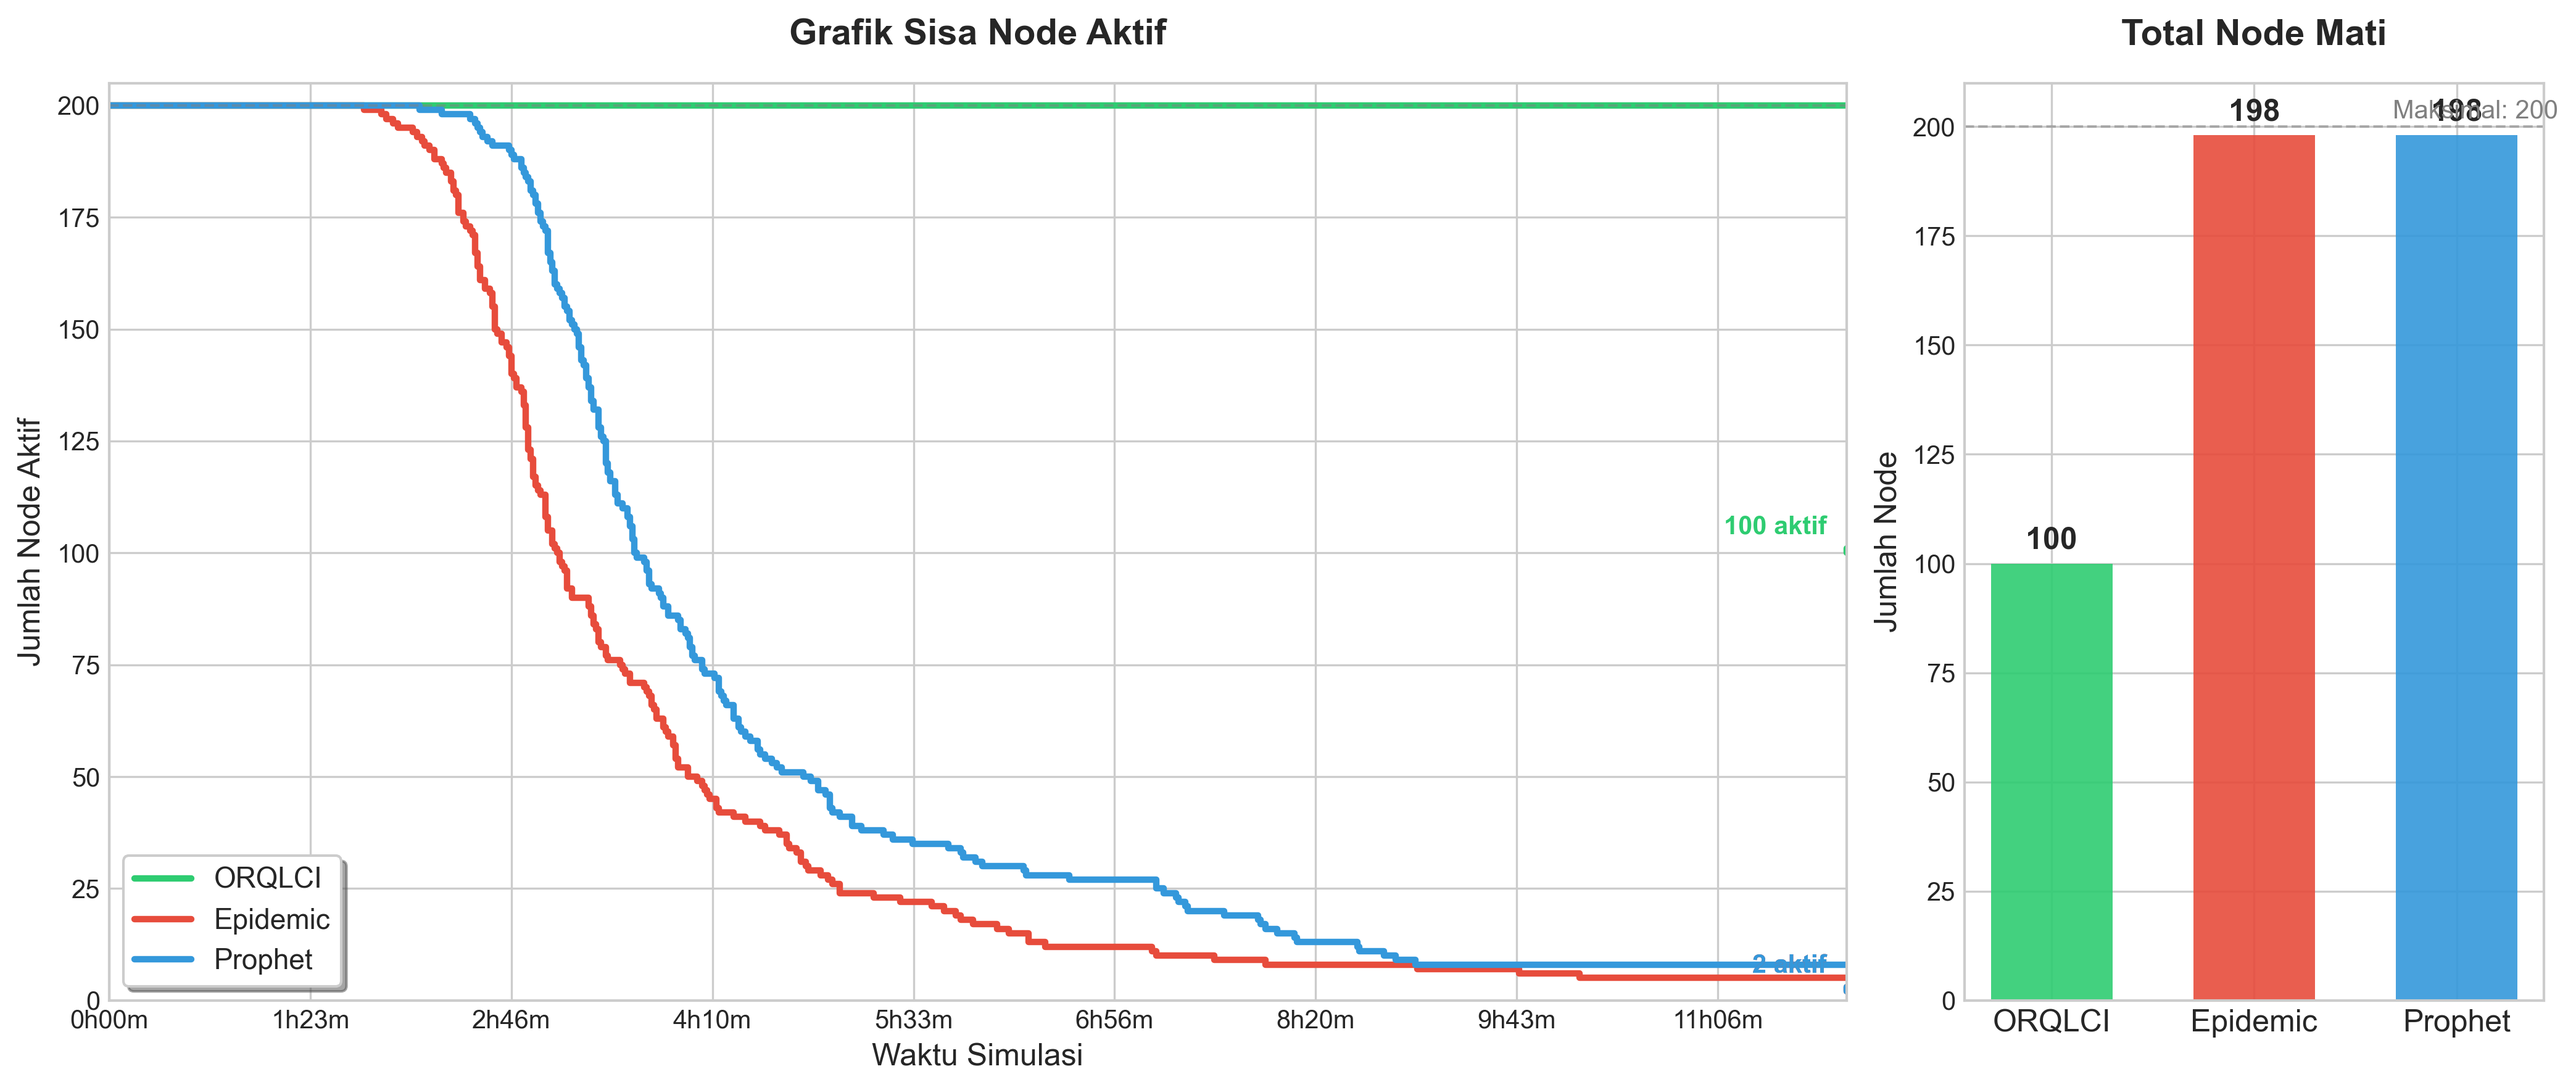
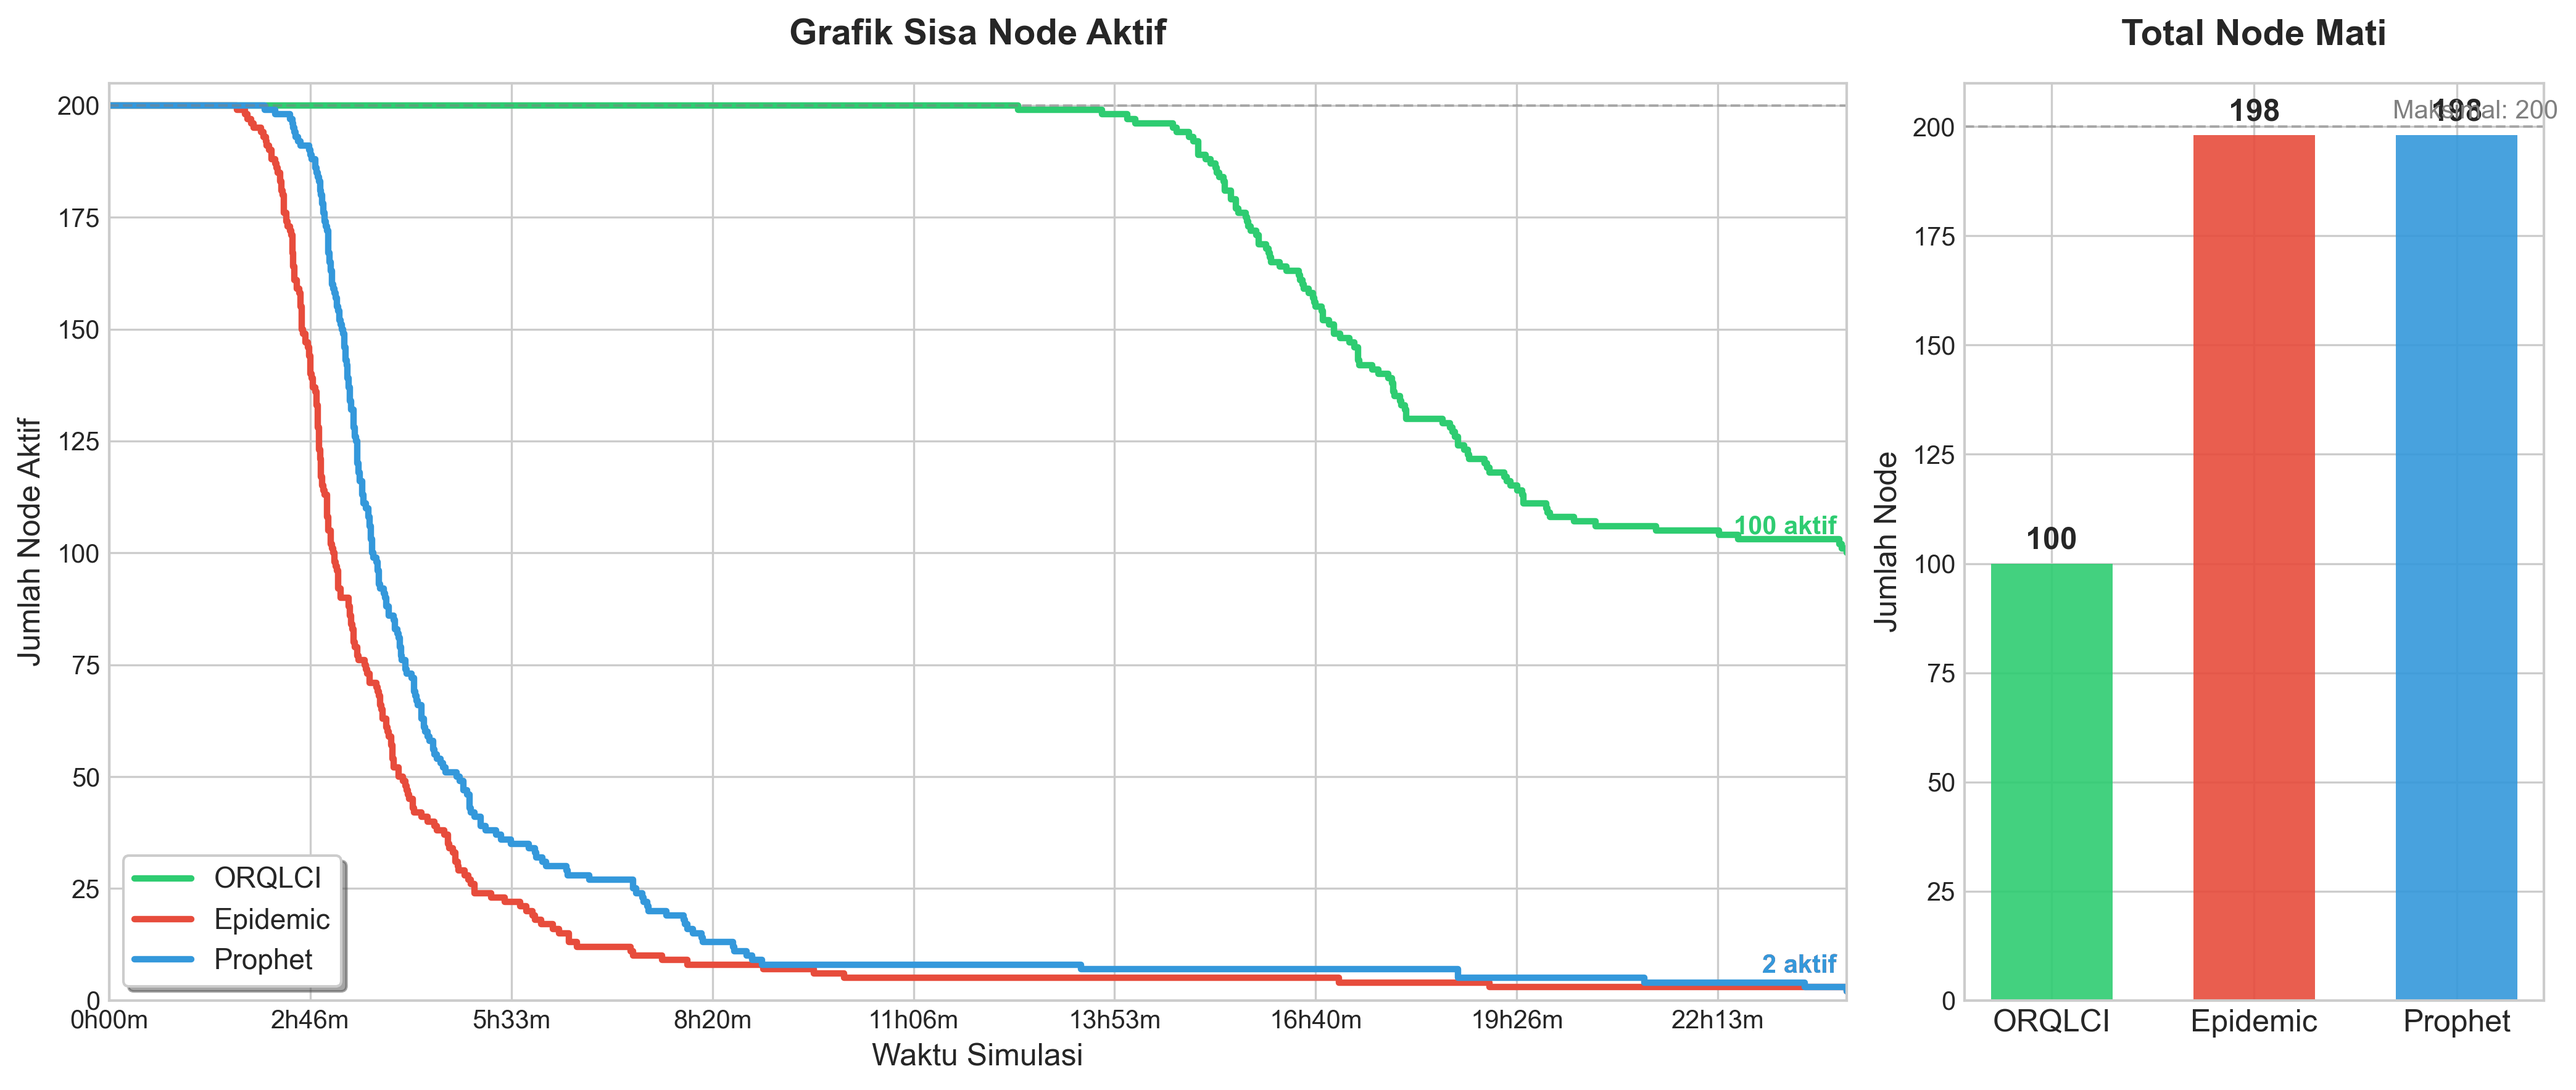
get the setting needed

diff --git a/plot_node_death.py b/plot_node_death.py
@@ -17,7 +17,7 @@ import numpy as np
 # =============================================================================
 
 REPORT_DIR = "hasil_skripsi/test_1/Helsinki/energy/test3"
-SIM_DURATION = 43200
+SIM_DURATION = 86400
 TOTAL_NODES = 200
 
 FILES = {
